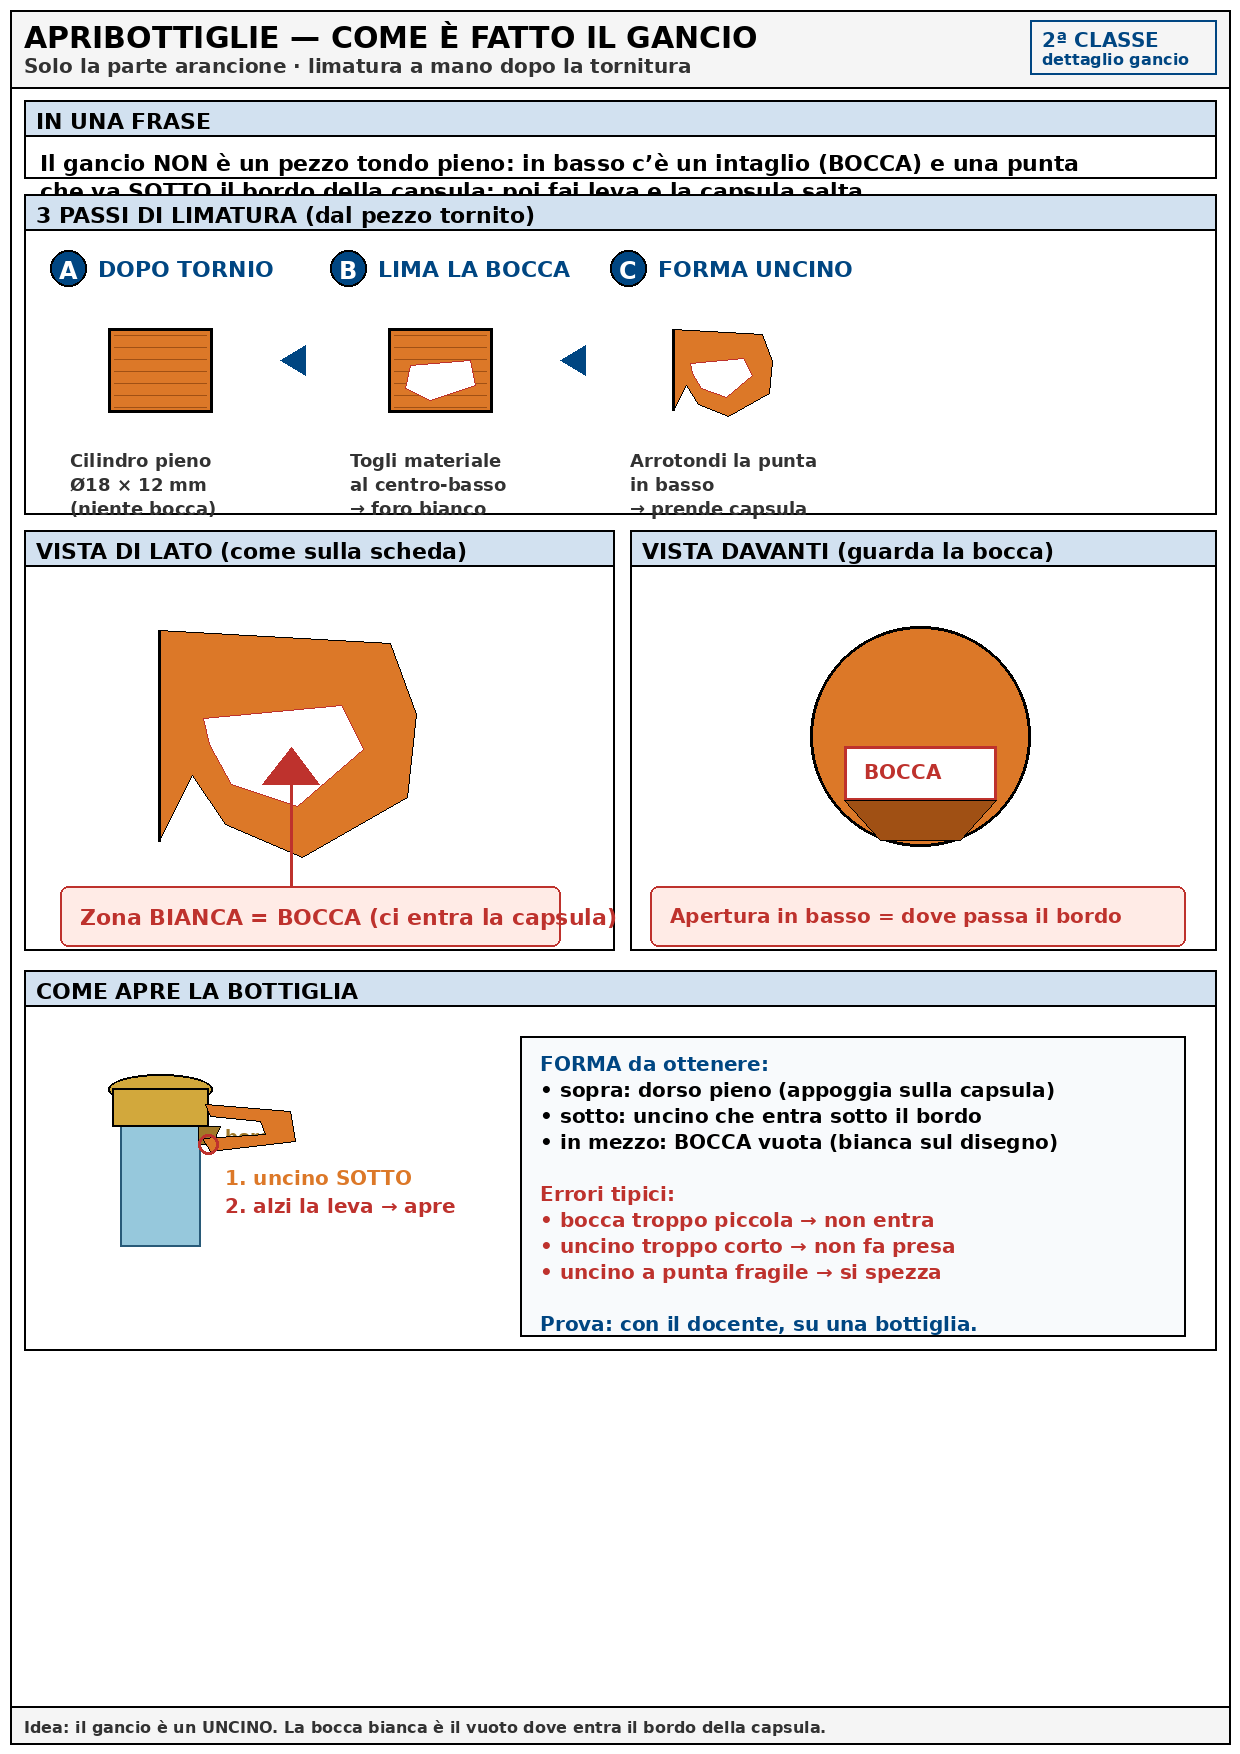
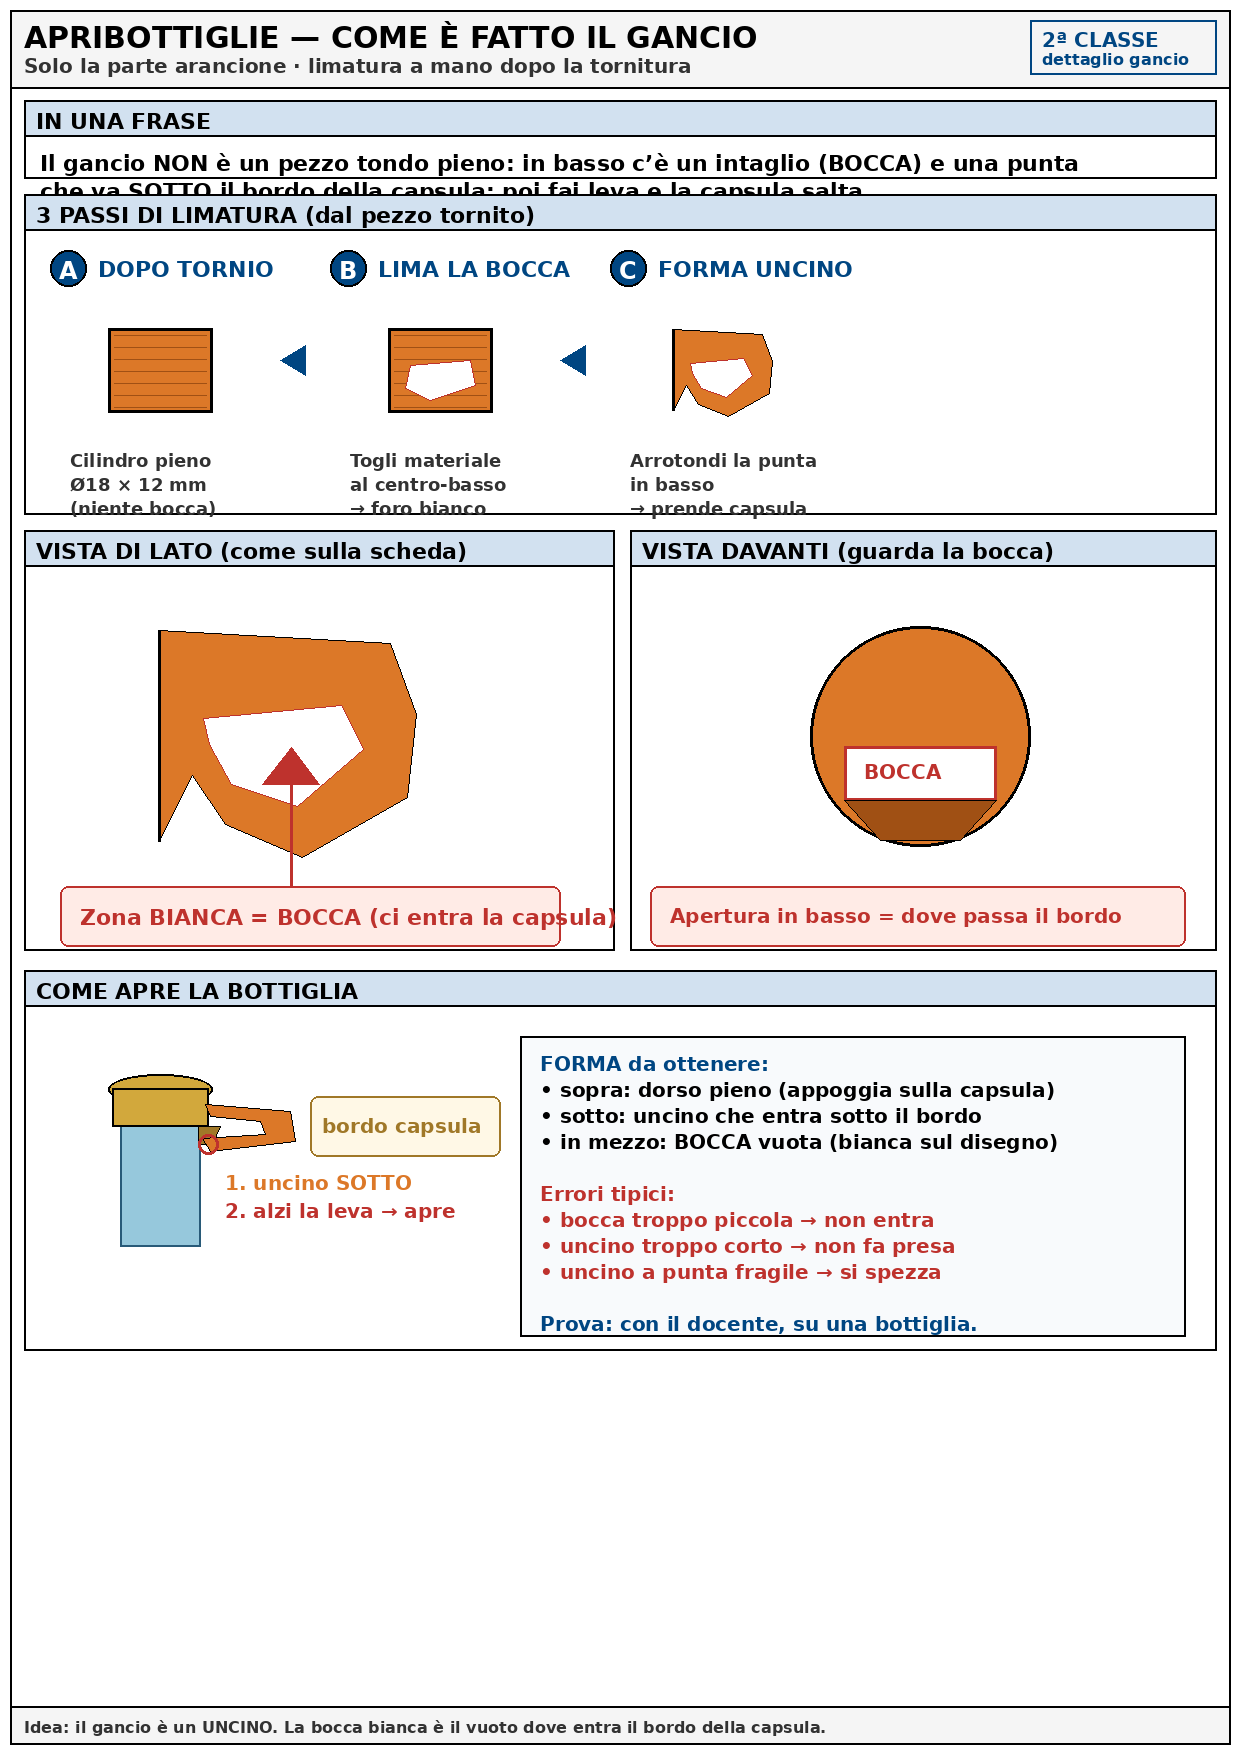
Fix etichetta bordo nel dettaglio gancio (niente sovrapposizione).

Changed region(s): [[0.1839, 0.6157, 0.429, 0.7081]]

diff --git a/progetti-ferro-gallery/generate_gancio_chiaro.py b/progetti-ferro-gallery/generate_gancio_chiaro.py
@@ -135,9 +135,6 @@ def draw_cap_engage(d, bx, by):
         fill=CAP_D,
         outline=BLACK,
     )
-    # freccia "bordo"
-    d.text((bx + 145, by + 100), "bordo", fill=CAP_D, font=F12)
-
     # uncino arancione SOTTO il labbro
     hook = [
         (bx + 125, by + 78),
@@ -152,8 +149,11 @@ def draw_cap_engage(d, bx, by):
     d.polygon(hook, fill=ORANGE, outline=BLACK)
     # evidenzia punto di presa
     d.ellipse([bx + 118, by + 108, bx + 138, by + 128], outline=RED, width=3)
-    d.text((bx + 145, by + 140), "1. uncino SOTTO", fill=ORANGE, font=F13)
-    d.text((bx + 145, by + 168), "2. alzi la leva → apre", fill=RED, font=F13)
+    # etichette a destra, fuori dal disegno
+    d.rounded_rectangle([bx + 230, by + 70, bx + 420, by + 130], radius=8, fill=(255, 248, 230), outline=CAP_D, width=2)
+    d.text((bx + 242, by + 88), "bordo capsula", fill=CAP_D, font=F13)
+    d.text((bx + 145, by + 145), "1. uncino SOTTO", fill=ORANGE, font=F13)
+    d.text((bx + 145, by + 173), "2. alzi la leva → apre", fill=RED, font=F13)
 
 
 def draw_file_steps(d, x, y):
